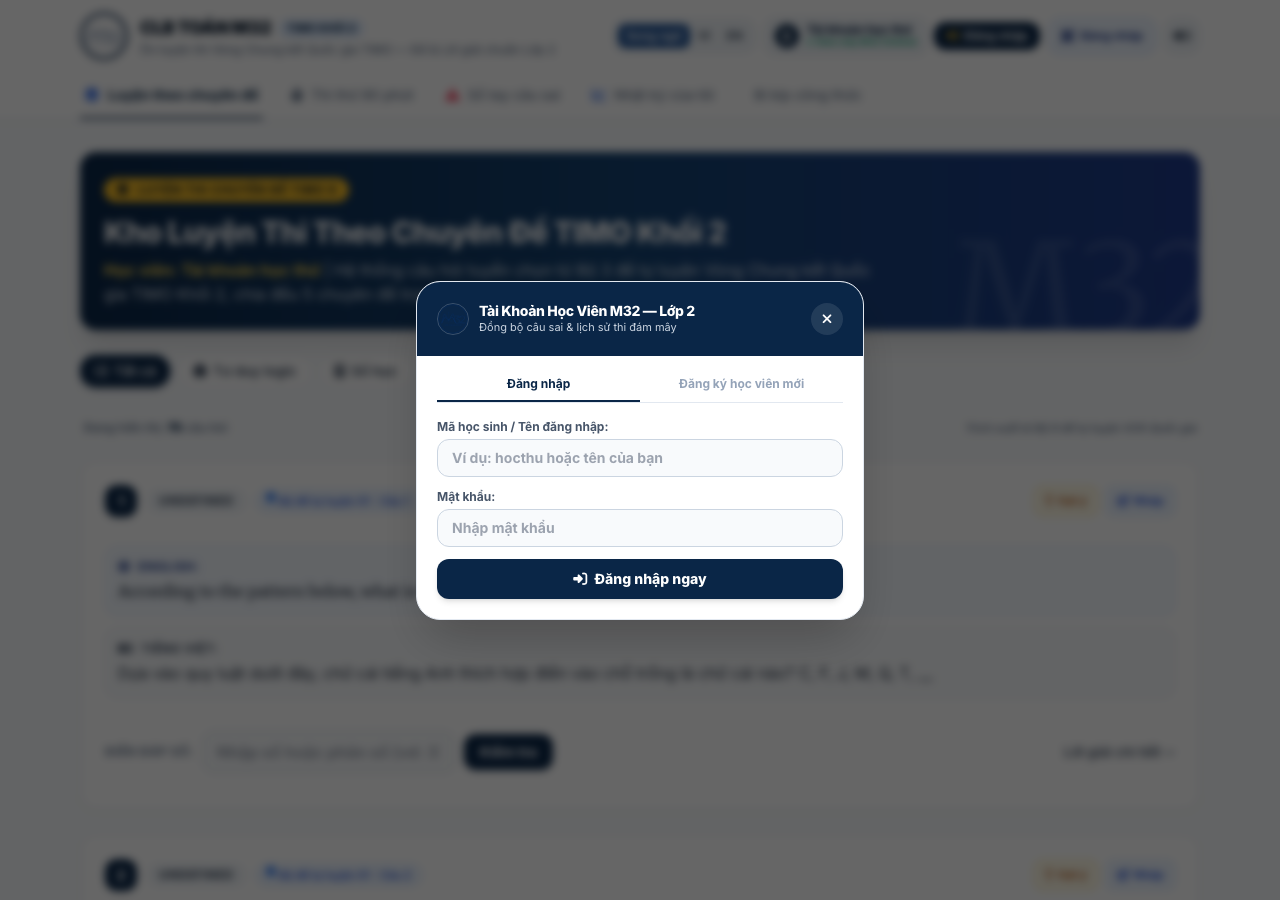
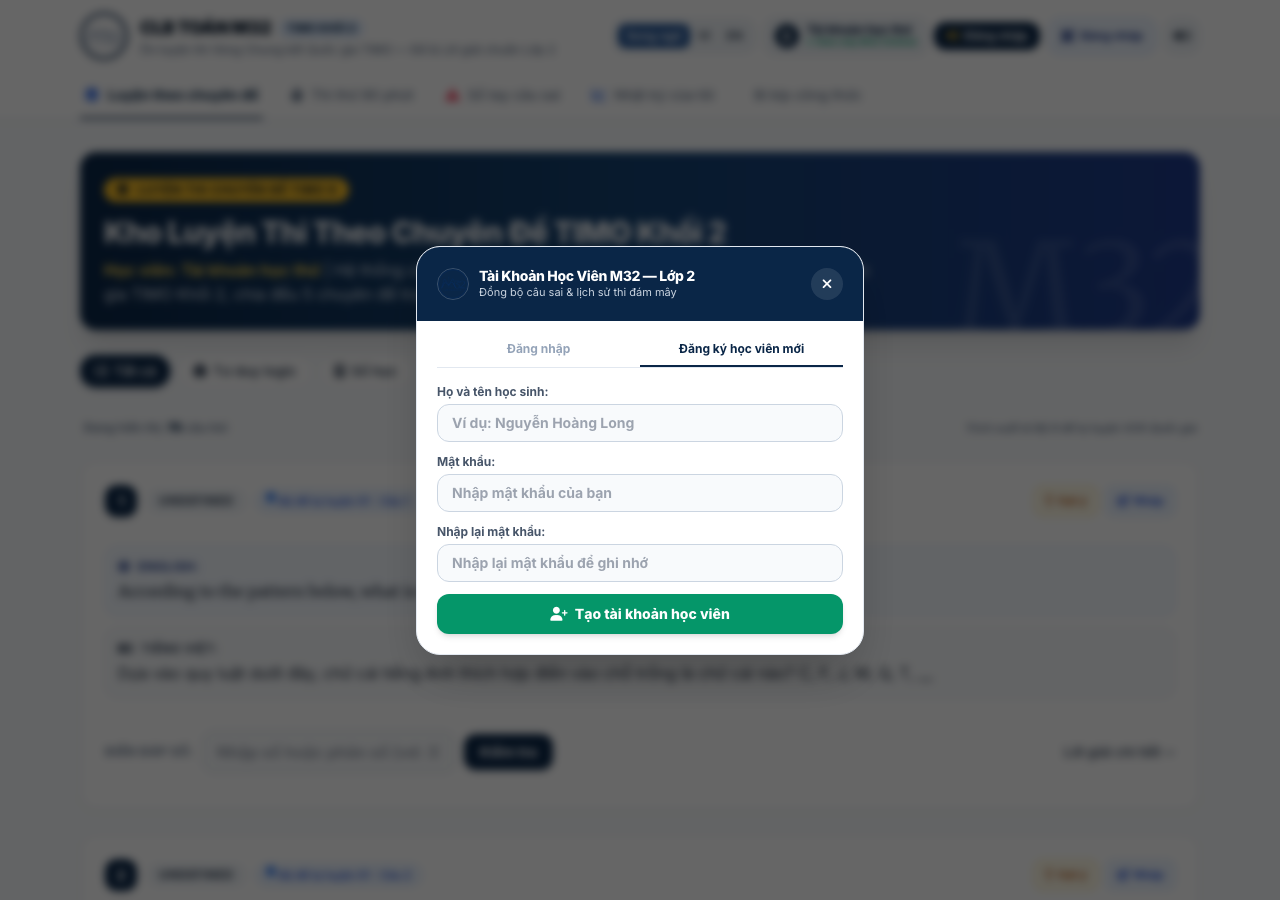
Update TIMO 2: Simplify registration using only Full Name and Password

Changed region(s): [[0.3125, 0.2489, 0.6875, 0.7467], [0.625, 0.28, 0.6562, 0.3111]]

diff --git a/timo2/js/cloud_storage.js b/timo2/js/cloud_storage.js
@@ -91,11 +91,29 @@ class M32CloudStorage {
     }
   }
 
+  toCleanKey(str) {
+    if (!str) return '';
+    return str
+      .trim()
+      .normalize('NFD')
+      .replace(/[\u0300-\u036f]/g, '')
+      .toLowerCase()
+      .replace(/đ/g, 'd')
+      .replace(/[^a-z0-9]/g, '');
+  }
+
   ensureSeedData() {
     const users = this.getAllUsers();
     // Tạo sẵn tài khoản học thử nếu chưa có
     if (!users['hocthu']) {
-      this.register('hocthu', 'Tài khoản học thử', '123456', false);
+      users['hocthu'] = {
+        username: 'hocthu',
+        fullName: 'Tài khoản học thử',
+        password: '123456',
+        grade: 'timo2',
+        createdAt: new Date().toISOString()
+      };
+      this.saveAllUsers(users);
     }
 
     // Nếu chưa ai đăng nhập, tự động đăng nhập Tài khoản học thử
@@ -122,14 +140,26 @@ class M32CloudStorage {
     } catch (e) {}
   }
 
-  register(username, fullName, password, setAsCurrent = true) {
-    const cleanUsername = username.trim().toLowerCase().replace(/[^a-z0-9_]/g, '');
-    if (!cleanUsername) return { success: false, message: 'Tên đăng nhập không hợp lệ (chỉ gồm chữ thường, số, dấu gạch dưới)!' };
-    if (!fullName || !fullName.trim()) return { success: false, message: 'Vui lòng nhập họ và tên học sinh!' };
+  register(fullName, password, setAsCurrent = true) {
+    if (!fullName || !fullName.trim()) {
+      return { success: false, message: 'Vui lòng nhập họ và tên học sinh!' };
+    }
+
+    const cleanUsername = this.toCleanKey(fullName);
+    if (!cleanUsername) {
+      return { success: false, message: 'Họ và tên học sinh chưa hợp lệ!' };
+    }
 
     const users = this.getAllUsers();
+    
+    // Nếu tên này đã tồn tại và đúng mật khẩu thì cho phép đăng nhập luôn
     if (users[cleanUsername]) {
-      return { success: false, message: 'Mã học sinh / Tên đăng nhập này đã tồn tại!' };
+      if (password && users[cleanUsername].password === password.trim()) {
+        if (setAsCurrent) this.setSession(users[cleanUsername]);
+        return { success: true, user: users[cleanUsername], isExisting: true };
+      } else {
+        return { success: false, message: `Học sinh "${fullName.trim()}" đã có tài khoản trên hệ thống. Nếu đây là bạn, vui lòng sang mục "Đăng nhập"!` };
+      }
     }
 
     const newUser = {
@@ -155,20 +185,34 @@ class M32CloudStorage {
     return { success: true, user: newUser };
   }
 
-  login(username, password) {
-    const cleanUsername = username.trim().toLowerCase().replace(/[^a-z0-9_]/g, '');
+  login(identifier, password) {
+    if (!identifier || !identifier.trim()) {
+      return { success: false, message: 'Vui lòng nhập họ và tên học sinh!' };
+    }
+
+    const cleanKey = this.toCleanKey(identifier);
     const users = this.getAllUsers();
-    const user = users[cleanUsername];
+    
+    // Tìm kiếm thông minh: trực tiếp theo cleanKey hoặc so sánh họ tên
+    let user = users[cleanKey];
+    if (!user) {
+      for (const k in users) {
+        if (users[k].username === cleanKey || this.toCleanKey(users[k].fullName) === cleanKey) {
+          user = users[k];
+          break;
+        }
+      }
+    }
 
     if (!user) {
       // Nếu chưa có cục bộ, kiểm tra xem có trên Cloud không
       if (this.isCloudConnected && this.firestore) {
-        this.fetchUserFromCloud(cleanUsername, password);
+        this.fetchUserFromCloud(cleanKey, password);
       }
-      return { success: false, message: 'Không tìm thấy học sinh với mã này. Hãy kiểm tra lại hoặc Đăng ký mới!' };
+      return { success: false, message: 'Không tìm thấy học sinh với tên này. Hãy kiểm tra lại hoặc sang mục Đăng ký mới!' };
     }
 
-    if (password && user.password && user.password !== password) {
+    if (password && user.password && user.password !== password.trim()) {
       return { success: false, message: 'Mật khẩu chưa chính xác!' };
     }
 
@@ -176,7 +220,7 @@ class M32CloudStorage {
 
     // Tự động kéo dữ liệu mới nhất từ Cloud
     if (this.isCloudConnected && this.firestore) {
-      this.pullUserData(cleanUsername);
+      this.pullUserData(user.username);
     }
 
     return { success: true, user };
@@ -187,7 +231,7 @@ class M32CloudStorage {
       const doc = await this.firestore.collection(this.FIRESTORE_COLLECTION).doc(cleanUsername).get();
       if (doc.exists) {
         const cloudUser = doc.data();
-        if (password && cloudUser.password && cloudUser.password !== password) {
+        if (password && cloudUser.password && cloudUser.password !== password.trim()) {
           alert('Mật khẩu chưa chính xác!');
           return;
         }

diff --git a/timo2/index.html b/timo2/index.html
@@ -257,8 +257,8 @@
         <!-- Login Form -->
         <form id="form-login" onsubmit="window.timoApp.handleLoginForm(event)" class="space-y-3">
           <div>
-            <label class="block text-xs font-bold text-slate-600 mb-1">Mã học sinh / Tên đăng nhập:</label>
-            <input type="text" id="login-username" placeholder="Ví dụ: hocthu hoặc tên của bạn" required
+            <label class="block text-xs font-bold text-slate-600 mb-1">Họ và tên học sinh:</label>
+            <input type="text" id="login-username" placeholder="Ví dụ: Nguyễn Hoàng Long (hoặc hocthu)" required
               class="w-full px-3.5 py-2 text-sm font-bold bg-slate-50 border border-slate-300 rounded-xl focus:ring-2 focus:ring-navy-900 focus:bg-white outline-none">
           </div>
           <div>
@@ -276,17 +276,12 @@
         <form id="form-register" onsubmit="window.timoApp.handleRegisterForm(event)" class="space-y-3 hidden">
           <div>
             <label class="block text-xs font-bold text-slate-600 mb-1">Họ và tên học sinh:</label>
-            <input type="text" id="reg-fullname" placeholder="Ví dụ: Trần Minh Anh" required
-              class="w-full px-3.5 py-2 text-sm font-bold bg-slate-50 border border-slate-300 rounded-xl focus:ring-2 focus:ring-navy-900 focus:bg-white outline-none">
-          </div>
-          <div>
-            <label class="block text-xs font-bold text-slate-600 mb-1">Mã học sinh (viết liền, không dấu):</label>
-            <input type="text" id="reg-username" placeholder="Ví dụ: minhanh" required
+            <input type="text" id="reg-fullname" placeholder="Ví dụ: Nguyễn Hoàng Long" required
               class="w-full px-3.5 py-2 text-sm font-bold bg-slate-50 border border-slate-300 rounded-xl focus:ring-2 focus:ring-navy-900 focus:bg-white outline-none">
           </div>
           <div>
             <label class="block text-xs font-bold text-slate-600 mb-1">Mật khẩu:</label>
-            <input type="password" id="reg-password" placeholder="Nhập mật khẩu" required
+            <input type="password" id="reg-password" placeholder="Nhập mật khẩu của bạn" required
               autocomplete="off" autocorrect="off" autocapitalize="off" spellcheck="false"
               class="w-full px-3.5 py-2 text-sm font-bold bg-slate-50 border border-slate-300 rounded-xl focus:ring-2 focus:ring-navy-900 focus:bg-white outline-none">
           </div>

diff --git a/timo2/js/app.js b/timo2/js/app.js
@@ -248,7 +248,6 @@ class TimoApp {
   handleRegisterForm(e) {
     e.preventDefault();
     const fullName = document.getElementById('reg-fullname').value;
-    const username = document.getElementById('reg-username').value;
     const pass = document.getElementById('reg-password').value;
     const passConfirm = document.getElementById('reg-password-confirm')?.value;
 
@@ -258,7 +257,7 @@ class TimoApp {
       return;
     }
 
-    const res = this.storage.register(username, fullName, pass, true);
+    const res = this.storage.register(fullName, pass, true);
     if (res.success) {
       this.closeAuthModal();
       this.updateUserHeader();
